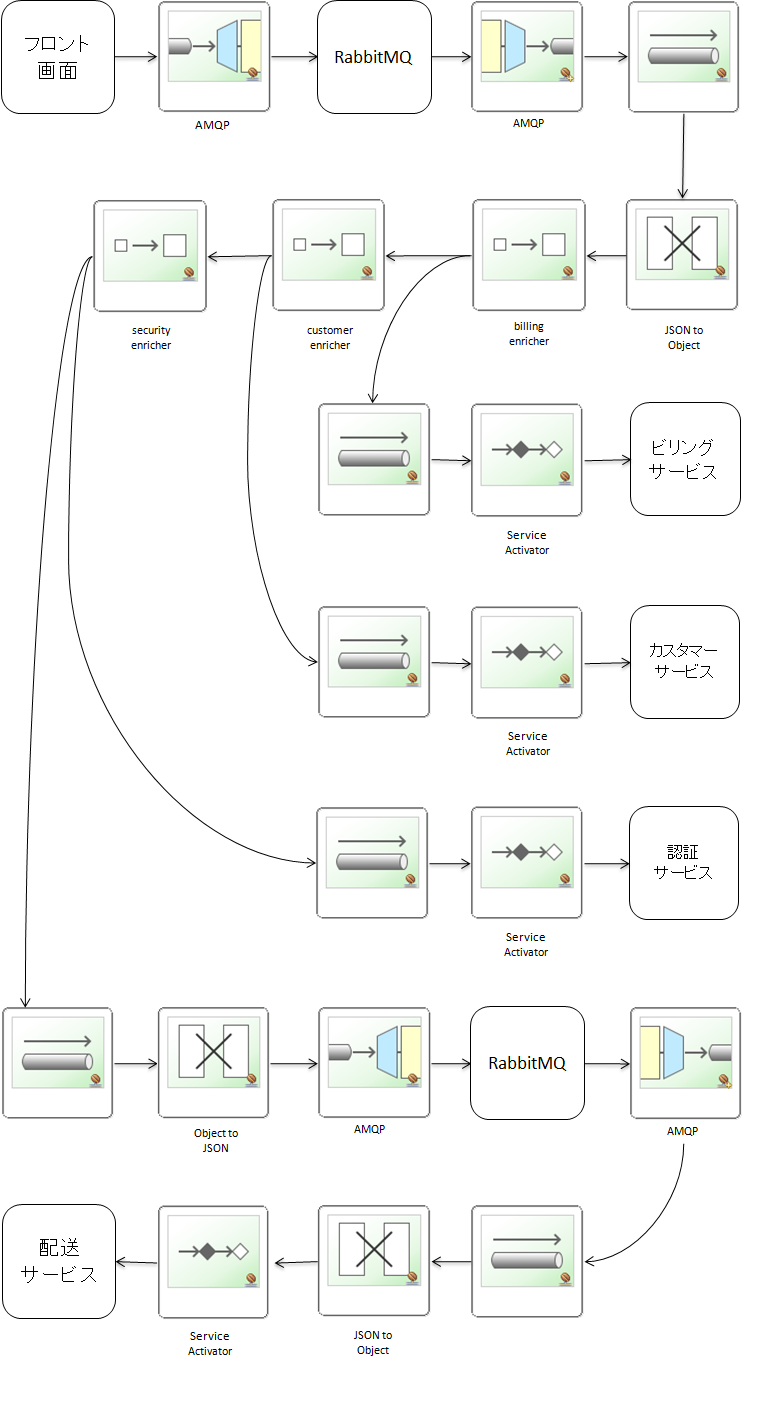
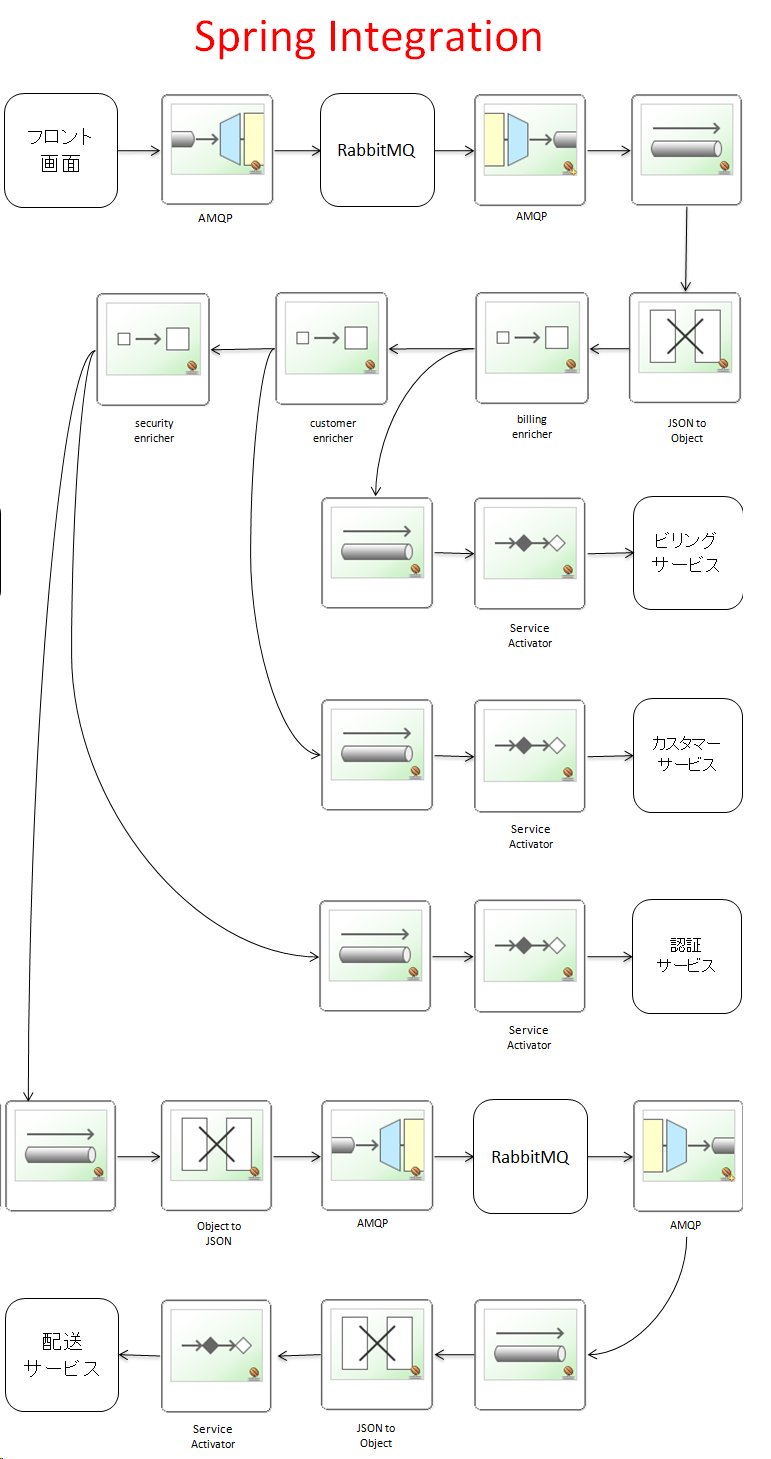
README更新

diff --git a/README.md b/README.md
@@ -24,5 +24,11 @@
 * EAI/EIP サーバー
 * Spring Integrationサーバー
 
+###アーキテクチャ
+---
+![アーキテクチャ](アーキテクチャ2.png)
+---
+![Integration](integration図4.png)
+
 
 
